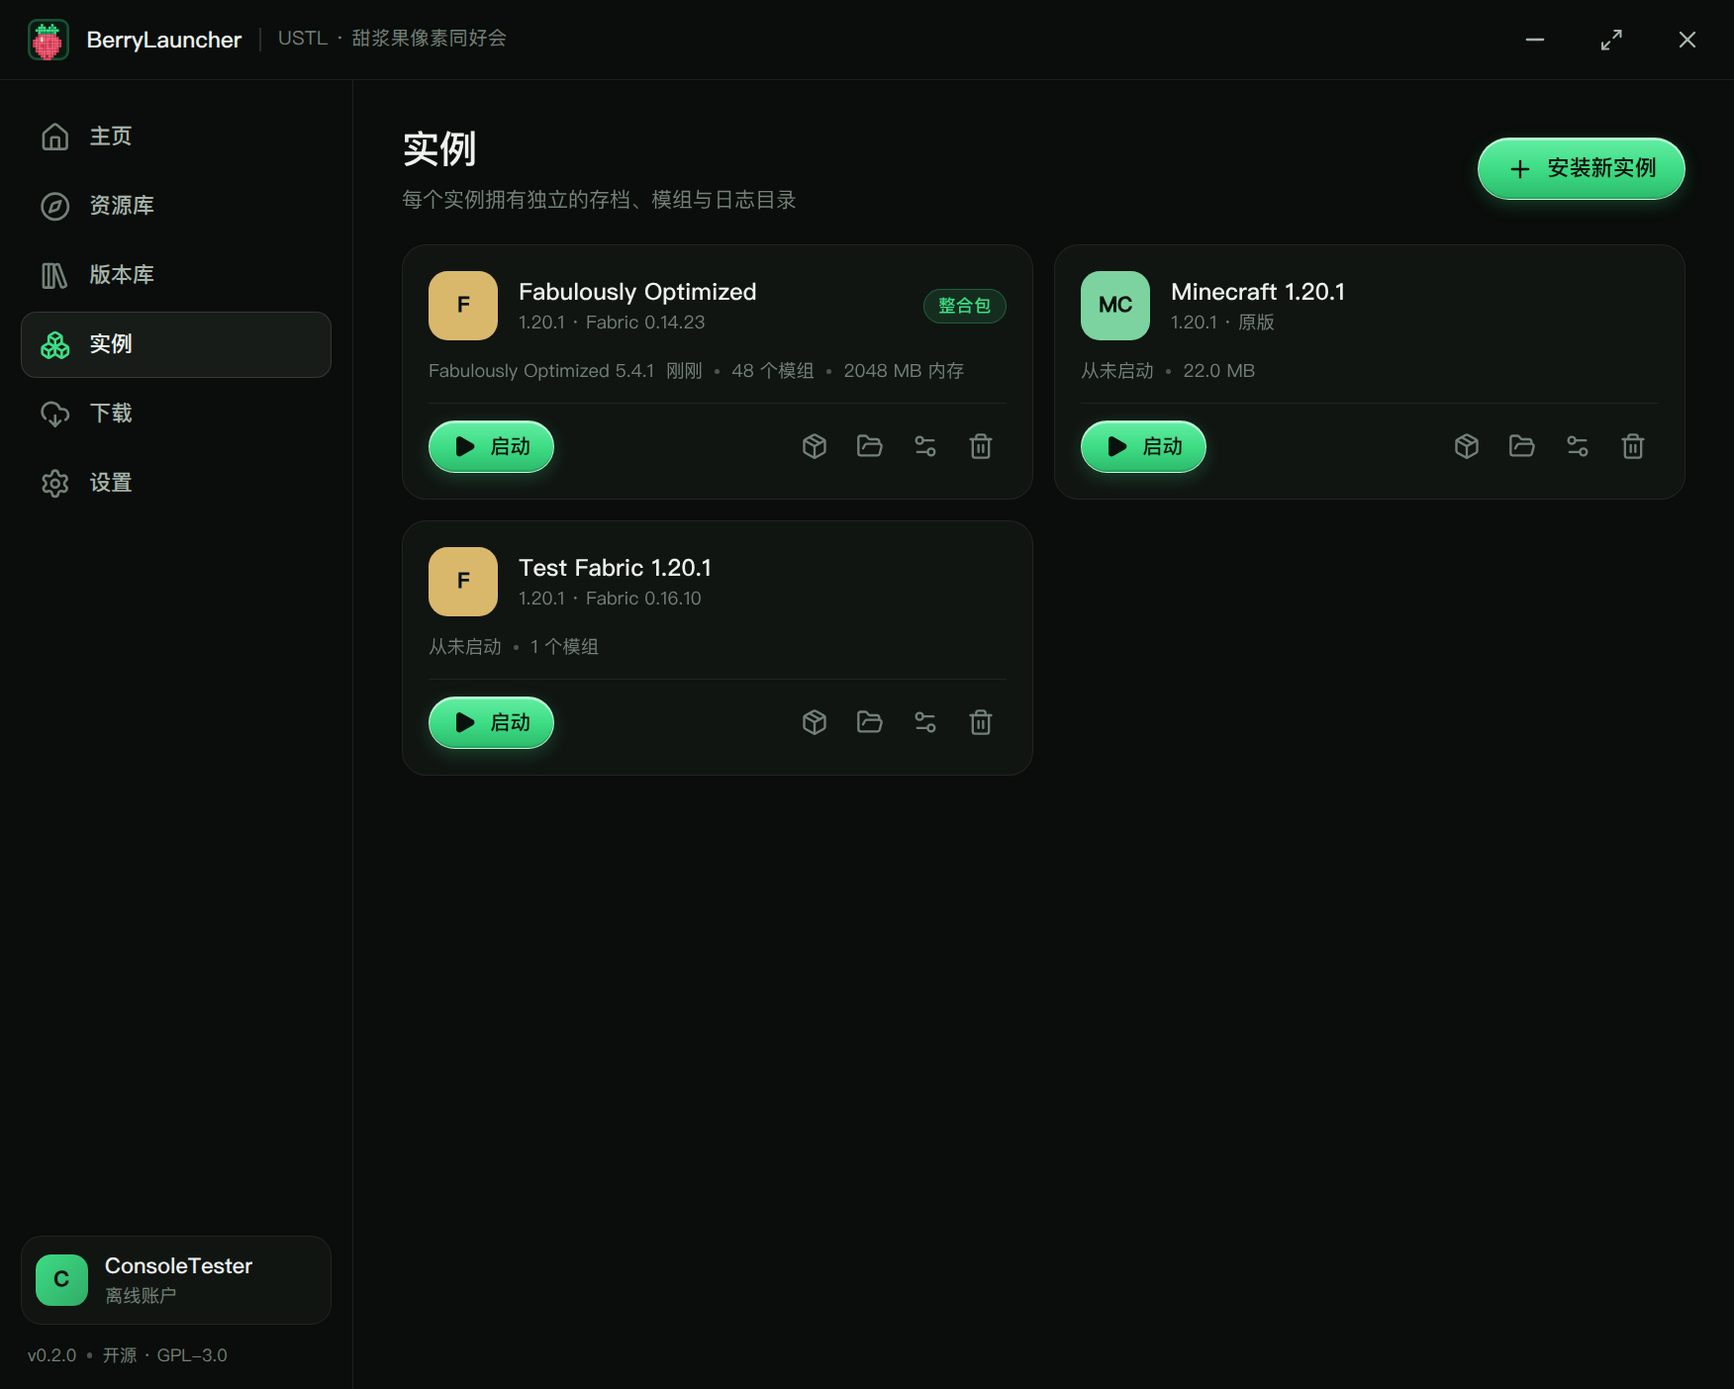
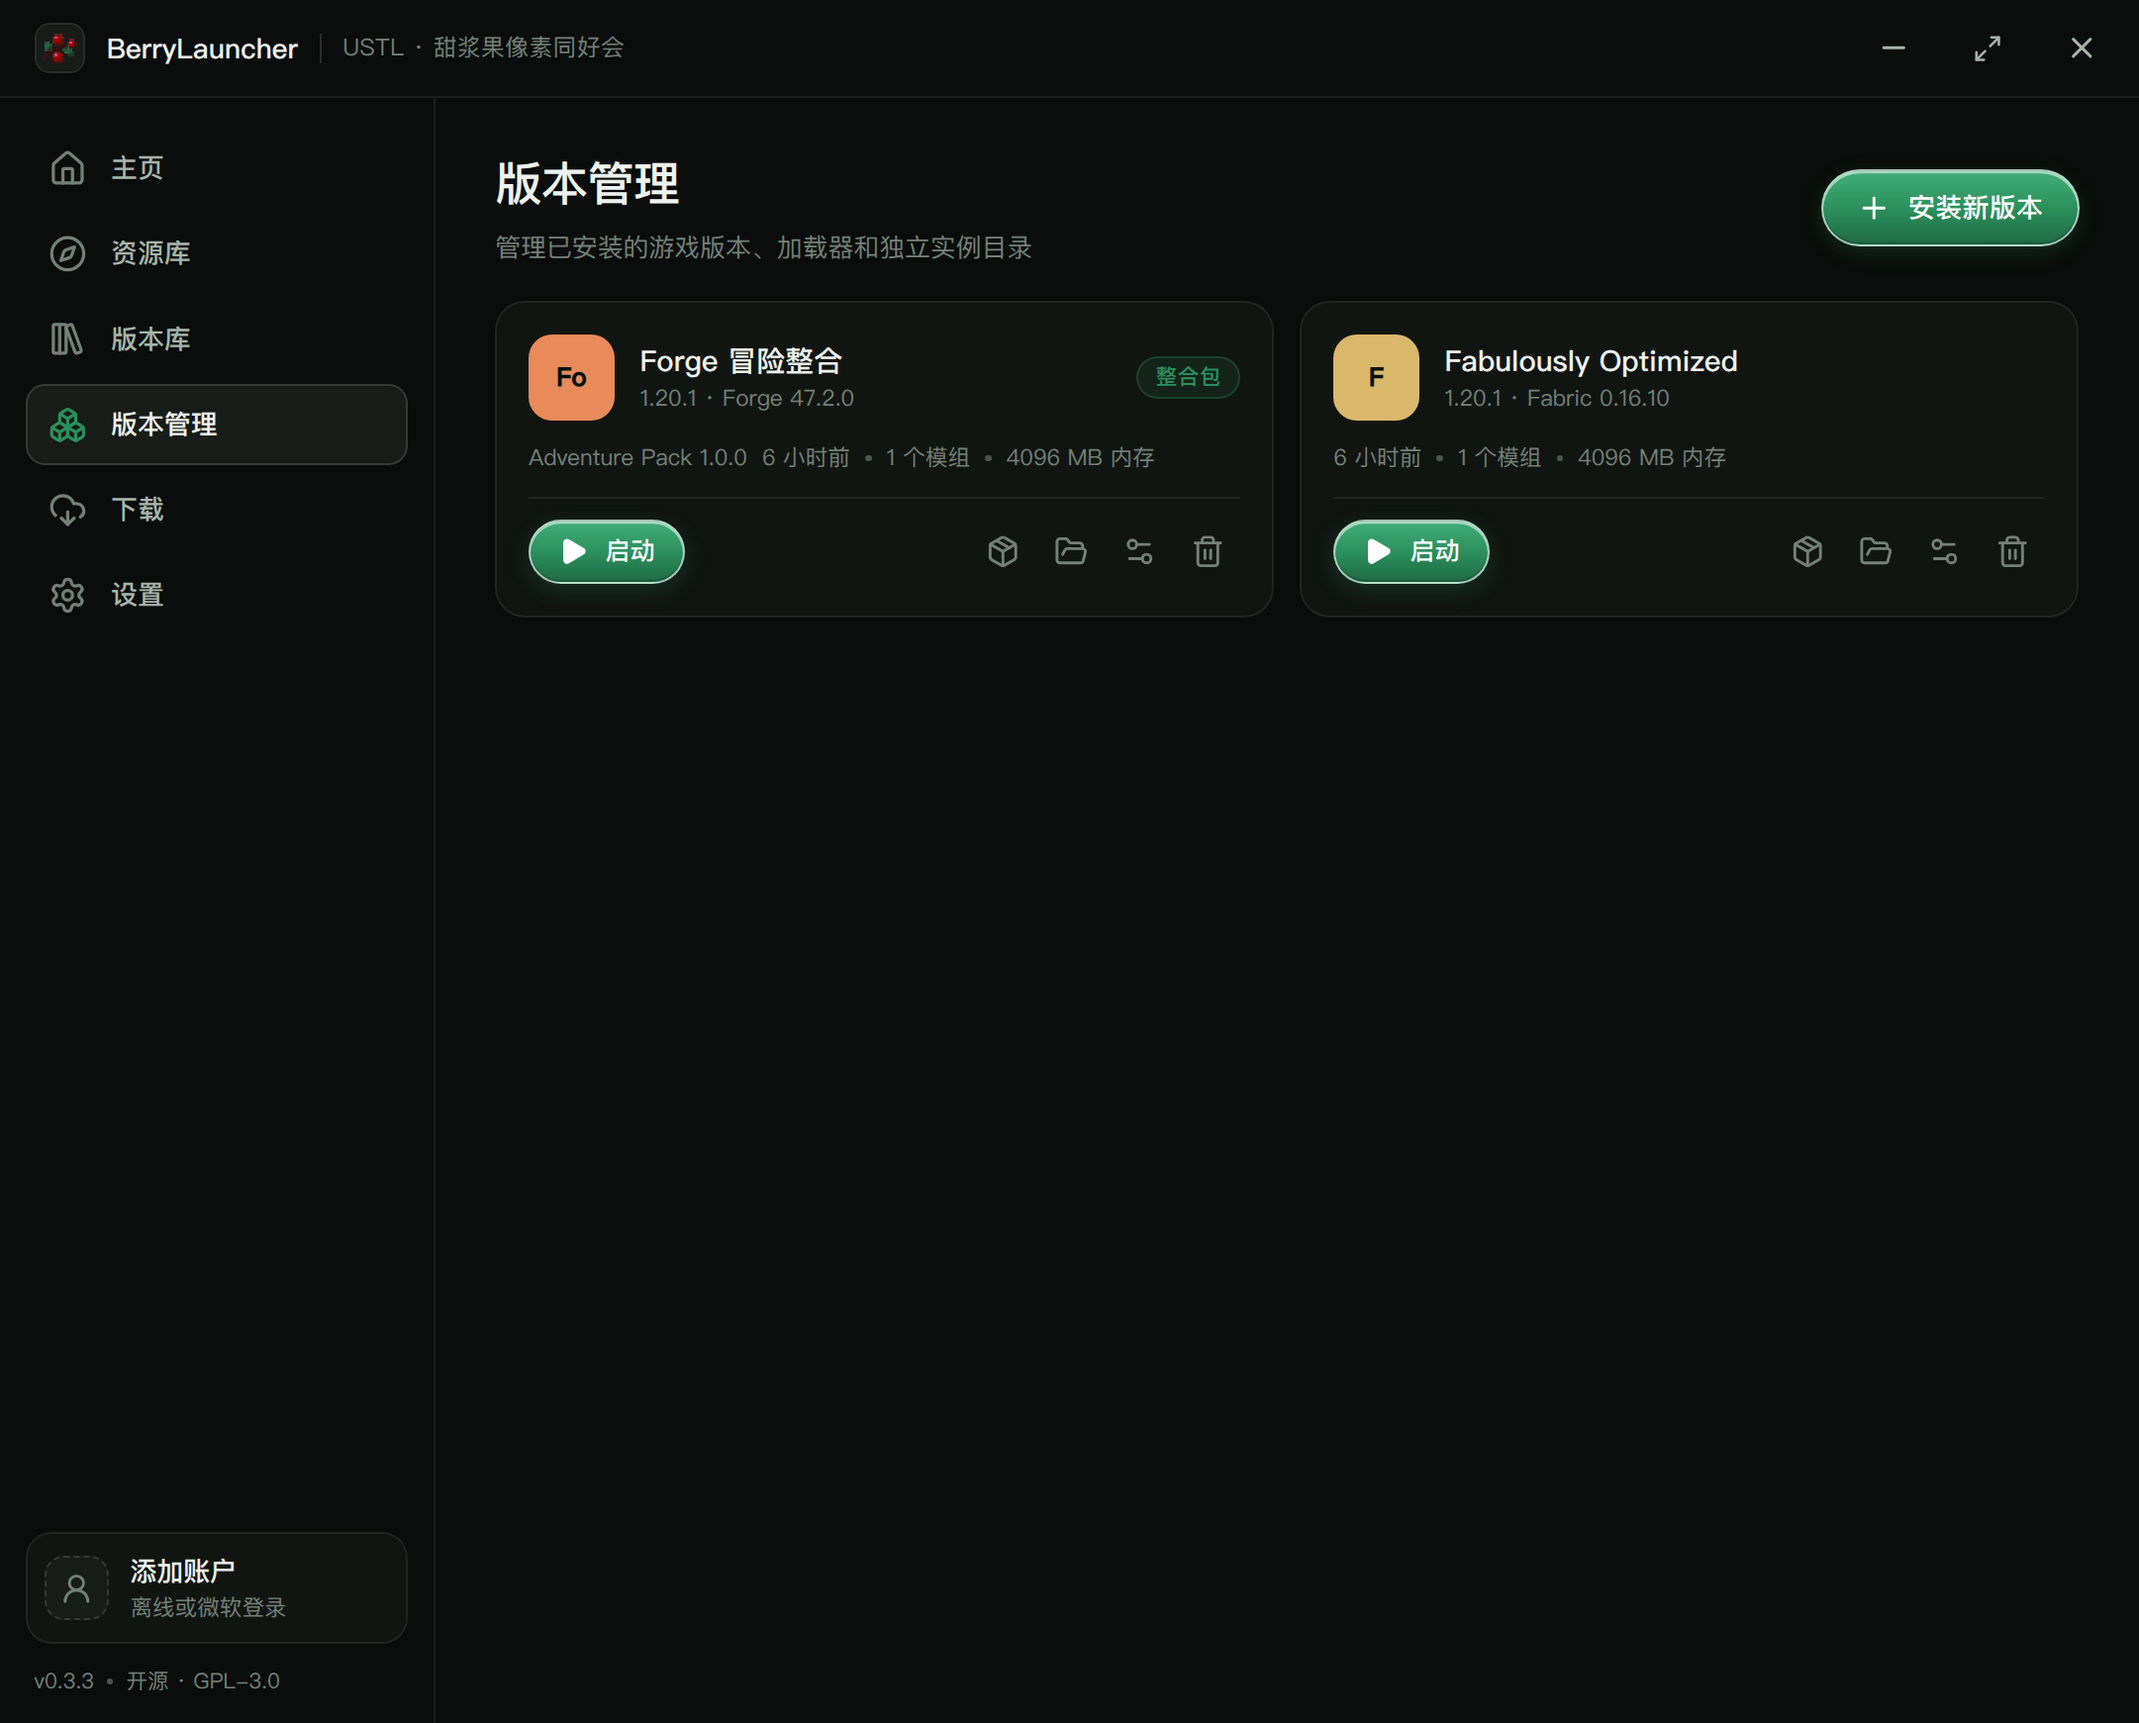
feat: expose version management and allow renaming instances
- rename the Instances page/nav to 版本管理 and update its copy
- add instances:rename IPC, preload API and a display-name field in settings
- refresh the 版本管理 screenshot and README
- bump to 0.3.3

diff --git a/src/renderer/pages/InstancesPage.tsx b/src/renderer/pages/InstancesPage.tsx
@@ -154,13 +154,19 @@ function InstanceCard({ instance }: { instance: InstanceSummary }) {
   const [confirming, setConfirming] = useState(false)
   const [editing, setEditing] = useState(false)
   const [modsOpen, setModsOpen] = useState(false)
+  const [name, setName] = useState(instance.name)
   const [memory, setMemory] = useState(instance.settings.memoryMB ?? 0)
   const [jvmArgs, setJvmArgs] = useState(instance.settings.jvmArgs ?? '')
+
+  useEffect(() => setName(instance.name), [instance.name])
 
   const running = launch.status?.state === 'running' && launch.status.versionId === instance.id
 
   const save = async () => {
     try {
+      const nextName = name.trim()
+      if (!nextName) throw new Error('名称不能为空')
+      if (nextName !== instance.name) await api.instances.rename(instance.id, nextName)
       await api.instances.updateSettings(instance.id, {
         memoryMB: memory || undefined,
         jvmArgs: jvmArgs || undefined,
@@ -254,6 +260,15 @@ function InstanceCard({ instance }: { instance: InstanceSummary }) {
             </div>
           }
         >
+          <Field label="显示名称" hint="只修改列表中的名称，不会移动实例目录">
+            <input
+              className="input"
+              value={name}
+              maxLength={60}
+              onChange={(e) => setName(e.target.value)}
+              placeholder={instance.name}
+            />
+          </Field>
           <Field label="最大内存" hint={`${((memory || 0) / 1024).toFixed(1)} GB · 留空使用全局默认`}>
             <Slider
               value={memory || 4096}
@@ -312,18 +327,18 @@ export function InstancesPage() {
     <div className="page instances-page">
       <header className="page-head">
         <div>
-          <h1>实例</h1>
-          <p>每个实例拥有独立的存档、模组与日志目录</p>
+          <h1>版本管理</h1>
+          <p>管理已安装的游戏版本、加载器和独立实例目录</p>
         </div>
         <Button variant="primary" icon={<Plus size={16} />} onClick={() => setPage('browse')}>
-          安装新实例
+          安装新版本
         </Button>
       </header>
 
       {instances.length === 0 ? (
         <EmptyState
           icon={<Boxes size={28} />}
-          title="还没有实例"
+          title="还没有版本"
           description="从版本库挑一个 Minecraft 版本，再选择 Fabric、Forge 或 NeoForge。"
           action={
             <Button variant="primary" onClick={() => setPage('browse')}>

diff --git a/src/renderer/lib/store.ts b/src/renderer/lib/store.ts
@@ -58,6 +58,7 @@ interface State {
   play: (id?: string) => Promise<void>
   stop: (id: string) => Promise<void>
   removeInstance: (id: string) => Promise<void>
+  renameInstance: (id: string, name: string) => Promise<void>
   setConsoleMode: (mode: 'hidden' | 'peek' | 'open') => void
   setLaunchStatus: (status: LaunchStatus) => void
   appendLogs: (lines: string[]) => void
@@ -179,6 +180,15 @@ export const useStore = create<State>((set, get) => ({
 
   stop: async (id) => {
     await api.instances.stop(id)
+  },
+
+  renameInstance: async (id, name) => {
+    try {
+      await api.instances.rename(id, name)
+      await get().refreshInstances()
+    } catch (err) {
+      get().toast('error', '重命名失败', err instanceof Error ? err.message : String(err))
+    }
   },
 
   removeInstance: async (id) => {

diff --git a/src/main/ipc.ts b/src/main/ipc.ts
@@ -201,6 +201,16 @@ export function registerIpc(): void {
     resources.gc()
     broadcast('instances:changed', listInstances(versions))
   })
+  handle('instances:rename', (id: string, name: string) => {
+    const clean = requireString(name, 'name').trim()
+    if (!clean) throw new Error('名称不能为空')
+    if (clean.length > 60) throw new Error('名称不能超过 60 个字符')
+    const gameDir = settings.get().gameDir
+    const meta = readMeta(gameDir, id)
+    if (!meta) throw new Error('实例不存在')
+    writeMeta(gameDir, { ...meta, name: clean })
+    broadcast('instances:changed', listInstances(versions))
+  })
   handle('instances:open-folder', async (id: string) => {
     const gameDir = settings.get().gameDir
     const meta = readMeta(gameDir, id)

diff --git a/src/renderer/components/Sidebar.tsx b/src/renderer/components/Sidebar.tsx
@@ -9,7 +9,7 @@ const NAV: { id: PageId; label: string; icon: typeof Home }[] = [
   { id: 'home', label: '主页', icon: Home },
   { id: 'discover', label: '资源库', icon: Compass },
   { id: 'browse', label: '版本库', icon: LibraryBig },
-  { id: 'instances', label: '实例', icon: Boxes },
+  { id: 'instances', label: '版本管理', icon: Boxes },
   { id: 'downloads', label: '下载', icon: DownloadCloud },
   { id: 'settings', label: '设置', icon: Settings },
 ]

diff --git a/src/preload/index.ts b/src/preload/index.ts
@@ -48,6 +48,7 @@ const api: BerryAPI = {
     launch: (id) => call('instances:launch', id),
     stop: (id) => call('instances:stop', id),
     remove: (id) => call('instances:remove', id),
+    rename: (id, name) => call('instances:rename', id, name),
     openFolder: (id) => call('instances:open-folder', id),
     updateSettings: (id, patch) => call('instances:update-settings', id, patch),
     setLastPlayed: (id) => call('instances:set-last-played', id),

diff --git a/src/shared/constants.ts b/src/shared/constants.ts
@@ -2,7 +2,7 @@ import type { LoaderKind } from './types'
 
 export const APP_NAME = 'BerryLauncher'
 export const APP_NAME_CN = '甜浆果启动器'
-export const APP_VERSION = '0.3.2'
+export const APP_VERSION = '0.3.3'
 export const CLUB_NAME = '辽宁科技大学 甜浆果像素同好会'
 export const CLUB_NAME_SHORT = 'USTL Sweet Berry Pixel Club'
 export const APP_ID = 'club.ustl.berrylauncher'

diff --git a/src/shared/types.ts b/src/shared/types.ts
@@ -375,6 +375,7 @@ export interface BerryAPI {
     launch(id: string): Promise<LaunchStatus>
     stop(id: string): Promise<void>
     remove(id: string): Promise<void>
+    rename(id: string, name: string): Promise<void>
     openFolder(id: string): Promise<void>
     updateSettings(id: string, patch: DeepPartial<InstanceSettings>): Promise<void>
     setLastPlayed(id: string): Promise<void>
